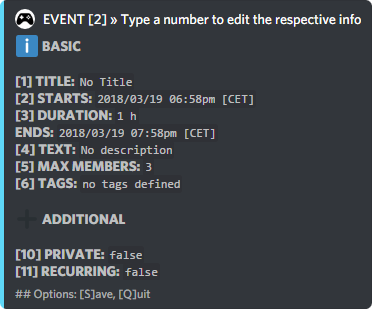
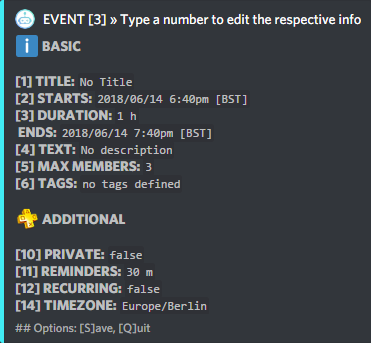
GitBook: [master] 2 pages and 4 assets modified

Changed region(s): [[0.0, 0.0, 0.9784, 1.0], [0.9784, 0.9903, 1.0, 1.0], [0.9784, 0.0, 1.0, 0.0291]]

diff --git a/commands/community/events.md b/commands/community/events.md
@@ -1,6 +1,6 @@
 # Events
 
-G4M3R has the best event system on Discord. It allows you to create private/public events. Private events require a password to join, which is sent to the event creator via direct message. Not only can you join/create events, you have some moderation over them. You can kick members you don't want in your event. You can also change the timezone of a particular event!
+G4M3R has the best event system on Discord. It allows you to create private/public events. Private events require a password to join, which is sent to the event creator via direct message. Not only can you join/create events, you have some moderation over them. You can kick members you don't want in your event, or add members. Members can now also deny joining an event, or be added to a waiting list if the max number of members is reached. 
 
 ## Use: `[prefix]events <action> <event type/ID>`
 
@@ -45,6 +45,10 @@ Enter the number corresponding to the information you would like to edit. When e
 Press the `enter` key to save your changes.  
 Enter `c` to cancel the change and return to the event creation menu.  
 Enter `q` to quit event creation completely.
+
+{% hint style="info" %}
+You can set multiple reminders for events at times of your choice!
+{% endhint %}
 
 When editing the events start date and time, you no longer need to enter it as  `YYYY/MM/DD hh:mm.`   
 You can enter it as any of the following:
@@ -98,11 +102,21 @@ So in this example, a user would type`<prefix>events join 2 9988`to join.
 
 Opens up a menu allowing you to enter a search criteria. 
 
+![](../../.gitbook/assets/events_search.png)
+
 You can also enter your search criteria directly as part of the search command.
 
-`<prefix>search author: [@user / ID]   
-<prefix>search type: [event type]   
-<prefix>search tags: [tag1] [tag2] [tag3]`
+`<prefix>events search author: [@user / ID]   
+<prefix>events search type: [event type]   
+<prefix>events search tags: [tag1] [tag2] [tag3]`
 
+Below is an example:
 
+```text
+.e search tags: search with tags
+```
+
+![](../../.gitbook/assets/events_searchexample.png)
+
+The event containing the tags is displayed.
 

diff --git a/commands/utility/embed.md b/commands/utility/embed.md
@@ -1,32 +1,23 @@
 # Embed
 
-## Usage
+You can use[ Nadeko embed builder](https://embedbuilder.nadekobot.me/) to create neat looking embeds.
 
-```text
-<prefix>embed [user] [embed] [whatever]
-```
+## `Use: <prefix>embed [optional: @user] [embed from Nadeko builder]`
 
-## Extended Help
+ Using @user is only relevant if you use one of the USER variables.
 
-&gt;&gt; _Two options_ to create an embed:
+## User Variables
 
-* _embed @user &lt;embedObject from Nadeko embed builder&gt;_
-* _embed &lt;embedObject from Nadeko embed builder&gt;_
-
-using @user is only relevant if you use one of the USER variables
-
-&gt;&gt; Possible _variables_ that will replaced by the bot:
+Here are the possible variables that will replaced by the bot:
 
 * _%author%, %authorimage%, %authormention%_
 * _%user%,%userimage%, %usermention%_
 * _%guild%, %guildimage%_
 
-&gt;&gt; user variables **only work** when mentioning a user together with the command
+User variables only work when mentioning a user together with the command and guild variables only work **** when command is used in a guild channel
 
-&gt;&gt; guild variables **only work**  when command is used in a guild channel
-
-**Create your embed object on this website:** [embedbuilder.nadekobot.me](https://embedbuilder.nadekobot.me/)  
-Soon there will be a custom Embed Builder in your dashboard ;\)
+  
+Soon there will be a custom Embed Builder in your dashboard
 
 ## Example
 
